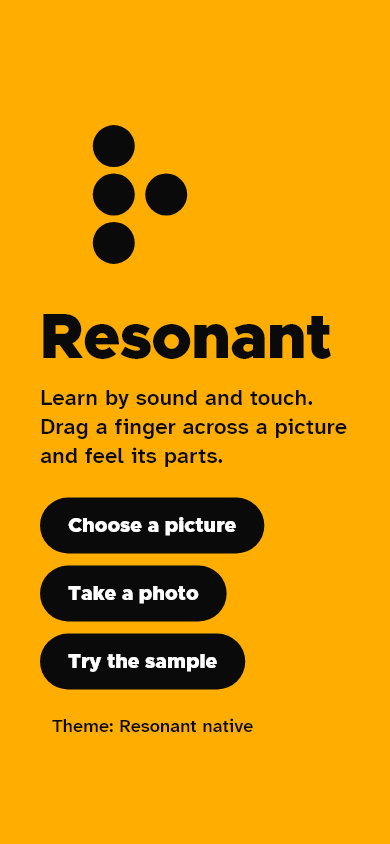
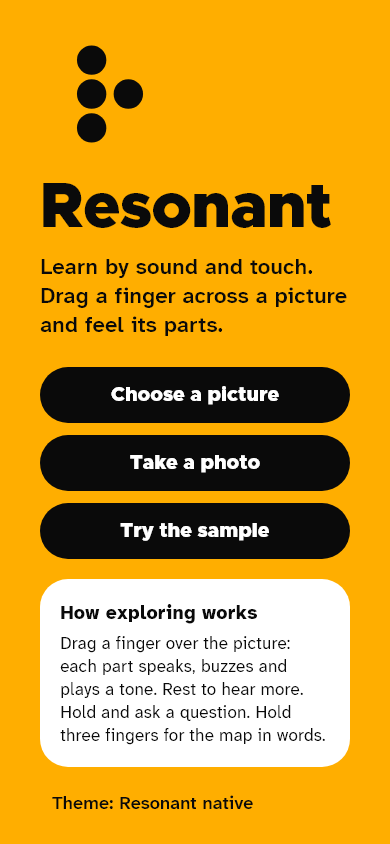
docs: six real screenshots and a full README

diff --git a/tool/screenshots_test.dart b/tool/screenshots_test.dart
@@ -11,12 +11,23 @@ import 'package:resonant/core/providers.dart';
 import 'package:resonant/core/theme/resonant_theme.dart';
 import 'package:resonant/features/touch/application/touch_controller.dart';
 import 'package:resonant/features/touch/data/http_touch_repository.dart';
+import 'package:resonant/features/touch/data/touch_repository.dart';
+import 'package:resonant/features/touch/domain/region.dart';
 import 'package:resonant/features/touch/gestures/gesture_types.dart';
 import 'package:resonant/features/touch/presentation/home_screen.dart';
 import 'package:resonant/features/touch/presentation/study_notes_screen.dart';
 import 'package:resonant/features/touch/presentation/touch_screen.dart';
 
 import '../test/fakes.dart';
+
+/// Serves the real bundled sample, but builds lessons and quizzes from the
+/// regions locally (the fake), so no network or backend is involved.
+class ShotRepo extends FakeRepository {
+  ShotRepo(super.log);
+  final _http = HttpTouchRepository(baseUrl: 'http://unused');
+  @override
+  Future<(Analysis, PictureBytes)> sample() => _http.sample();
+}
 
 void main() {
   TestWidgetsFlutterBinding.ensureInitialized();
@@ -50,7 +61,7 @@ void main() {
       hapticsProvider.overrideWithValue(FakeHaptics(log)),
       cuesProvider.overrideWithValue(FakeCues(log)),
       speechInputProvider.overrideWithValue(FakeInput(log)),
-      repositoryProvider.overrideWithValue(HttpTouchRepository(baseUrl: 'http://unused')),
+      repositoryProvider.overrideWithValue(ShotRepo(log)),
     ];
   }
 
@@ -101,6 +112,44 @@ void main() {
     await expectLater(
       find.byType(StudyNotesScreen),
       matchesGoldenFile('../docs/screenshots/03-study-notes.png'),
+    );
+  });
+
+  Future<ProviderContainer> openExplore(WidgetTester tester) async {
+    final container = await pumpApp(tester);
+    await tester.runAsync(() async {
+      await container.read(touchControllerProvider.notifier).openSample();
+      await Future<void>.delayed(const Duration(milliseconds: 800));
+    });
+    await tester.pump(const Duration(milliseconds: 300));
+    await tester.runAsync(() => Future<void>.delayed(const Duration(milliseconds: 600)));
+    await tester.pump(const Duration(milliseconds: 300));
+    return container;
+  }
+
+  testWidgets('lesson screenshot', (tester) async {
+    final container = await openExplore(tester);
+    await container.read(touchControllerProvider.notifier).startLesson();
+    await tester.pump(const Duration(milliseconds: 300));
+    await expectLater(find.byType(TouchScreen), matchesGoldenFile('../docs/screenshots/04-lesson.png'));
+  });
+
+  testWidgets('quiz screenshot', (tester) async {
+    final container = await openExplore(tester);
+    await container.read(touchControllerProvider.notifier).startQuiz();
+    await tester.pump(const Duration(milliseconds: 300));
+    await expectLater(find.byType(TouchScreen), matchesGoldenFile('../docs/screenshots/05-quiz.png'));
+  });
+
+  testWidgets('low vision theme screenshot', (tester) async {
+    final container = await pumpApp(tester);
+    container.read(paletteProvider.notifier).next(); // Resonant native -> Low vision
+    // MaterialApp lerps to the new theme over 200 ms; let it finish.
+    await tester.pump();
+    await tester.pump(const Duration(milliseconds: 400));
+    await expectLater(
+      find.byType(HomeScreen),
+      matchesGoldenFile('../docs/screenshots/06-theme-low-vision.png'),
     );
   });
 }

diff --git a/README.md b/README.md
@@ -1,6 +1,17 @@
+<div align="center">
+
 # Resonant
 
 **Learn by sound and touch.** Drag a finger across a picture and feel its parts.
+
+![Platform](https://img.shields.io/badge/platform-Flutter%20·%20Android%20·%20iOS%20·%20web-FFAE00?style=flat-square&labelColor=0A0A0A)
+![AI](https://img.shields.io/badge/AI-Muse%20Spark%201.3%20%2B%20SAM%203.1-FFAE00?style=flat-square&labelColor=0A0A0A)
+![Accessibility](https://img.shields.io/badge/built%20for-eyes--free%20use-FFAE00?style=flat-square&labelColor=0A0A0A)
+![Tests](https://img.shields.io/badge/tests-76%20Flutter%20%2B%2041%20backend-FFAE00?style=flat-square&labelColor=0A0A0A)
+
+[Screens](#screens) · [How it works](#how-it-works) · [Live voice](#live-voice-talk-live) · [Gestures](#gestures) · [Themes](#themes) · [Run it](#run-it) · [Status](#status--what-is-in-the-app-and-what-is-not) · [Credits](#credits)
+
+</div>
 
 Diagrams, charts and photos are the part of school that screen readers cannot reach. Alt text says
 "a diagram of the water cycle" and stops. Resonant turns the picture itself into something a blind
@@ -11,14 +22,29 @@ it says which way to walk to the nearest part.
 
 The logo is the letter R in braille (⠗: dots 1-2-3-5), because sound and touch resonate through everything.
 
-## Screenshots
+## Screens
 
-| | |
-| --- | --- |
-| ![Home screen: braille-R dots logo, the word Resonant, and three large buttons — Choose a picture, Take a photo, Try the sample](docs/screenshots/01-home.png) | ![Explore screen: the sample landscape with the sun outlined, its spoken caption below, gesture strips on both sides, and buttons for Overview, Previous and Next part, Lesson, Quiz me, Talk live and Study notes](docs/screenshots/02-explore.png) |
-| *Pick a picture — or try the sample, no key needed.* | *Explore: the sun is outlined, captioned, and one tap from a lesson, a quiz, or a live tutor.* |
-| ![Study notes: the picture as plain text — title, overview, the map in words, and every part with its description, ready for a screen reader](docs/screenshots/03-study-notes.png) | |
-| *Study notes: the whole picture as readable text for revision.* | |
+Rendered from the real app with its own fonts and the bundled sample picture — not mockups.
+Regenerate them with the golden-test generator in `tool/` (see `docs/screenshots/README.md`).
+
+<div align="center">
+<table>
+<tr>
+<td align="center"><img src="docs/screenshots/01-home.png" width="250" alt="Home: the braille-R dots, the word Resonant, three wide buttons (Choose a picture, Take a photo, Try the sample), a card explaining how exploring works, and the theme line"><br><b>Home</b><br><sub>Pick a picture, or try the sample</sub></td>
+<td align="center"><img src="docs/screenshots/02-explore.png" width="250" alt="Explore: the sample landscape with the sun outlined, its spoken caption below, gesture strips on both sides, and buttons for Overview, Previous and Next part, Lesson, Quiz me, Talk live and Study notes"><br><b>Explore</b><br><sub>The sun, outlined and captioned</sub></td>
+<td align="center"><img src="docs/screenshots/03-study-notes.png" width="250" alt="Study notes: the picture as plain text — title, a Copy notes to share button, overview, the map in words, and every part with its description and clock position"><br><b>Study notes</b><br><sub>The whole picture as readable text</sub></td>
+</tr>
+<tr>
+<td align="center"><img src="docs/screenshots/04-lesson.png" width="250" alt="Lesson mode: the picture above the caption 'Lesson. Welcome to the lesson.' and Previous step, Next step, Repeat and Back to exploring buttons"><br><b>Lesson</b><br><sub>A guided walk through the parts</sub></td>
+<td align="center"><img src="docs/screenshots/05-quiz.png" width="250" alt="Quiz mode: the caption asks 'Quiz. 2 questions. Question 1. Find the sun.' with Answer by voice, Repeat question, Skip and Back to exploring buttons"><br><b>Quiz</b><br><sub>Find it by touch, or answer out loud</sub></td>
+<td align="center"><img src="docs/screenshots/06-theme-low-vision.png" width="250" alt="Home in the Low vision theme: yellow dots, wordmark and text on a near-black background, black buttons with white text, and a dark card with a yellow outline"><br><b>Low vision theme</b><br><sub>One of twelve, a tap away</sub></td>
+</tr>
+</table>
+</div>
+
+The braille R is also the app's face while it works: on the explore screen the dots gather when it is
+listening, orbit while it thinks, and settle when it is idle — and every state also has a sound and a
+vibration, so the face is a sighted extra, never the only signal.
 
 ## Pre-existing work
 
@@ -30,7 +56,7 @@ Dart**:
 | Carried over from the earlier app | Where it lives here |
 | --- | --- |
 | The name, the braille R logo and the dot animation geometry | `lib/core/ui/resonant_dots.dart`, `assets/brand/` |
-| Colour palettes, shapes and sizes (four of its themes) | `lib/core/theme/` |
+| Colour palettes, shapes and sizes (all twelve of its themes) | `lib/core/theme/` |
 | Fonts (Metropolis, Atkinson Hyperlegible) | `assets/fonts/`, see `NOTICE.md` |
 | Gesture grammar: zones, timings, swipe inversion, hold-to-adjust-speed, three-finger gestures | `lib/features/touch/gestures/` |
 | The haptic vocabulary and its matching sound cues, and the stereo-panning rule | `lib/core/services/haptics.dart`, `sound.dart` |
@@ -42,7 +68,7 @@ left-right-to-stereo sound mapping; hold-to-ask questions about the part under y
 through parts from the edge; the Flutter app and its architecture, for Android, iPhone and web; and all
 the tests.
 
-**Ported from Resonant-AI during the hackathon, rewritten in Dart/JS** (behaviour and wording only,
+**Ported from Resonant-AI during the hackathon, rewritten in Dart/JS/Python** (behaviour and wording only,
 no old code copied; inventoried in `docs/HACKATHON.md`):
 
 | Ported feature | Where it lives here |
@@ -50,8 +76,9 @@ no old code copied; inventoried in `docs/HACKATHON.md`):
 | Lesson mode: guided steps through content, swipes navigate | `lib/features/learn/`, `POST /api/lesson` |
 | Quiz / check-me: correct–incorrect haptic and sound feedback, score | `lib/features/learn/`, `POST /api/quiz`, `POST /api/grade` |
 | Voice tutor chat (the old LiveKit agent, as hold-to-talk multi-turn chat) | `TouchSession` history + `POST /api/chat` |
+| Live voice: a real conversation you can interrupt (the old PC agent, rewritten) | `agent/agent.py`, `POST /api/livekit-token`, the Talk live screen — *built; first on-phone call still to be made* |
 
-## Status — what is in the app, and what is not (1 Nov)
+## Status — what is in the app, and what is not
 
 **Working today, on a real phone:**
 
@@ -69,17 +96,21 @@ no old code copied; inventoried in `docs/HACKATHON.md`):
   answer — and a **Practise missed** round with only the questions you got wrong.
 - **Voice tutor**: hold, ask, lift — then follow up ("and why?"). The tutor remembers the
   conversation and knows which part your finger is on.
-- **Study notes**: the whole picture as plain text (overview, map, every part) for revision with a
-  screen reader.
-- Screen-reader buttons for every gesture, four themes, 71 Flutter tests + 38 backend tests, all green.
+- **Study notes**: the whole picture as plain text (overview, map, every part with its clock-face
+  position) for revision with a screen reader — and **Copy notes to share** pastes them anywhere.
+- Screen-reader buttons for every gesture, twelve themes, 76 Flutter tests + 41 backend tests, all green.
+
+**Built, one step from proven:**
+
+- **Talk live**: a real-time voice conversation with the tutor that you can interrupt mid-sentence.
+  The backend token endpoint, the PC agent and the app screen are built and unit-tested; the first
+  call on a real phone is still to be made. Until then the proven tutor is hold-to-talk, above.
 
 **Not built yet (deliberately — see `docs/HACKATHON.md`):**
 
 - No public hosted link: for now the backend runs on your own computer and the phone talks to it
   over the same Wi-Fi. (A Modal hosting spike is planned; Baseten credits are held in reserve and
   untouched, because on-device speech works.)
-- No real-time voice agent: the tutor is hold-to-talk, not a live conversation. The old LiveKit
-  agent was not revived.
 - Nothing is saved: one picture at a time, no library, no accounts, no progress between sessions.
   Practise-missed lasts for the quiz you are in.
 - New pictures need the backend, a Meta API key and internet. Once a picture is analysed, exploring,
@@ -110,6 +141,32 @@ no old code copied; inventoried in `docs/HACKATHON.md`):
 - The Meta key lives only on the backend. The app never holds it. Re-analyzing a picture you already
   opened is served from the backend's cache, not paid for twice.
 
+## Live voice (Talk live)
+
+Tap **Talk live** on the explore screen and just talk. Start speaking while the tutor is mid-sentence
+and it stops and listens — that interruption is the point.
+
+```
+phone mic ──► LiveKit Cloud (free tier, carries audio only) ──► agent/agent.py on your PC
+              Silero VAD hears you start ──► faster-whisper writes it down
+              ──► Muse Spark answers ──► Piper speaks ──► back to the phone
+```
+
+Everything except the audio relay runs on your own machine and costs nothing: Silero and
+faster-whisper listen locally, Piper is the local voice, and Muse Spark thinks on Meta credits.
+The backend mints the student's room token (`POST /api/livekit-token`) and hides the picture's
+context inside it, so the tutor already knows what you are looking at and which part you last
+touched. Captions of both sides appear on screen as you talk.
+
+```bash
+cd agent && pip install -r requirements.txt
+python agent.py download-files   # one-time: VAD + voice models
+python agent.py dev              # then open a picture in the app and tap Talk live
+python agent.py console          # no phone handy? Talk to it in the terminal
+```
+
+*Status: built end to end and unit-tested; the first on-phone call is still to be made (see Status).*
+
 ## Studying, not just exploring
 
 Everything below is computed on the phone from the masks and boxes — no extra model calls, so it
@@ -118,6 +175,8 @@ works even when the network does not:
 - **Map in words.** Three-finger hold reads the overview plus a three-band spoken map
   ("Top: cloud on the left, sun on the right. Middle: mountain…"), so the layout can be learned,
   not just visited.
+- **Clock-face positions.** Study notes place every part on a clock face ("the sun, at 2 o'clock"),
+  the way blind students are taught to share locations.
 - **What's around it.** A quick tap on a part also names its neighbours ("Around it: cloud to the
   left, mountain below"), which is how a mental picture gets its edges.
 - **Guide me there.** Hold and ask *"Where is the sun?"* and guide mode points you as you drag:
@@ -125,8 +184,9 @@ works even when the network does not:
   lands on the mask.
 - **Practise missed.** The quiz remembers the questions you missed, skipped or had revealed, and
   the end of the quiz offers a second round with only those.
-- **Study notes.** A plain-text screen (overview, map in words, every part with its size and
-  neighbours) that a screen reader can read top to bottom — revision without re-analyzing.
+- **Study notes.** A plain-text screen (overview, map in words, every part with its size, clock
+  position and neighbours) that a screen reader can read top to bottom — revision without
+  re-analyzing. **Copy notes to share** puts the same text on the clipboard for homework or a teacher.
 
 ## Gestures
 
@@ -138,7 +198,7 @@ Carried over from the earlier app, plus finger exploration:
 | Centre | Move, then rest | Hear the part's description |
 | Centre | Quick tap | Hear its name and description now, and what is around it |
 | Centre | Hold still 0.5 s, speak, lift | Ask a question about the picture, or ask "Where is the …?" to be guided to it |
-| Explore screen | Lesson / Quiz me buttons | Guided lesson, or a quiz: touch the part it names, answer questions out loud |
+| Explore screen | Lesson / Quiz me / Talk live buttons | Guided lesson, a quiz (touch the part it names, answer out loud), or a live conversation |
 | Lesson / Quiz | Left-edge swipe, buttons below | Next / previous step or question; hold right edge to go back to exploring |
 | Left edge | Tap / double tap | Stop and resume talking / repeat |
 | Left edge | Swipe (finger down = next) | Step through the parts without dragging |
@@ -146,13 +206,22 @@ Carried over from the earlier app, plus finger exploration:
 | Right edge | Hold without dragging | Back |
 | Anywhere | Three-finger tap / hold | Repeat last / hear the overview and the map in words |
 
+## Themes
+
+The **Theme** line on Home cycles twelve themes carried over from Resonant: Resonant native,
+Low vision (enormous contrast), Cataracts (high clarity), Handsfree (screen reader), Monochrome
+(colorblind), Photophobia (low glare), Warm ambiance, Night red, Blue on yellow, Soft cream,
+Paper gray and White on blue. They are not just colour swaps — the high-contrast ones add outlines
+and change the corner shapes too. Every theme's text pairings are checked at 7:1 or better by a
+unit test (`test/palette_test.dart`), so a future edit cannot quietly make a theme unreadable.
+
 ## Architecture
 
 ```
 lib/
   core/            speech, haptics, sound behind interfaces; theme; the animated braille logo
   features/touch/
-    domain/        Region, Analysis, hit-testing, spatial words (map, neighbours)  (pure Dart)
+    domain/        Region, Analysis, hit-testing, spatial words (map, neighbours, clock)  (pure Dart)
     gestures/      the gesture engine: touches -> gestures (pure Dart, no clock, no timers)
     application/   TouchSession: gestures -> speech/touch/sound  (pure Dart) + Riverpod controller
     data/          the backend client
@@ -160,7 +229,8 @@ lib/
   features/learn/
     domain/        Lesson, Quiz, Grade                     (pure Dart)
     application/   LearnSession: lesson steps + quiz grading (pure Dart)
-backend/           Node: Muse Spark + SAM 3.1 -> regions; Spark -> lesson, quiz, tutor chat
+backend/           Node: Muse Spark + SAM 3.1 -> regions; Spark -> lesson, quiz, tutor chat; LiveKit tokens
+agent/             Python: the Talk live tutor (Silero, faster-whisper, Muse Spark, Piper)
 ```
 
 Every effect (voice, vibration, tones, microphone, network) sits behind an interface, so the whole
@@ -193,8 +263,8 @@ speech and sound, but not vibration, because Safari has none. A native iPhone bu
 ## Tests
 
 ```bash
-flutter test            # gestures, hit-testing, sessions, spatial words, sound (71 tests)
-cd backend && npm test  # the Meta pipeline, mask handling, lesson/quiz/chat API (38 tests)
+flutter test            # gestures, hit-testing, sessions, spatial words, notes, theme contrast, sound (76 tests)
+cd backend && npm test  # the Meta pipeline, mask handling, lesson/quiz/chat API, LiveKit tokens (41 tests)
 ```
 
 ## Known limits
@@ -203,11 +273,24 @@ cd backend && npm test  # the Meta pipeline, mask handling, lesson/quiz/chat API
 - SAM 3.1 matches one concept per request, so a vaguely phrased label can match nothing. The backend retries with simpler concepts; if it still finds nothing but Muse Spark gave a rough box, the part stays touchable as an approximate rectangle (the app says so), and many tiny matches in one photo (every tooth in a close-up) are merged into one region.
 - Vibration is timed on Android. On iPhone it is a series of taps, and none at all in the browser.
 - With TalkBack or VoiceOver on, the screen reader takes over one-finger touch, so use the buttons under the picture.
+- Talk live needs the agent running on a computer on the same network, and its first on-phone call is still to be made.
 
-## Built with
+## Credits
 
-Meta Model API (Muse Spark 1.3, SAM 3.1), Flutter, Riverpod, Node. The initial project scaffold was
-written with help from Claude (Anthropic) as a coding assistant.
+Resonant stands on a lot of generous work. Each of these keeps its own license.
+
+| What | Used for | License |
+| --- | --- | --- |
+| Meta Model API (Muse Spark 1.3, SAM 3.1) | Naming parts, lessons, quizzes, grading, the tutor's brain; exact picture masks | Meta Model API terms |
+| [LiveKit](https://livekit.io) + LiveKit Agents | Carrying live voice between the phone and the PC agent (free tier) | Apache-2.0 |
+| [Silero VAD](https://github.com/snakers4/silero-vad) | Hearing when you start and stop talking | MIT |
+| [faster-whisper](https://github.com/SYSTRAN/faster-whisper) | Writing down what you said, on your own PC | MIT |
+| [Piper](https://github.com/rhasspy/piper) | The tutor's spoken voice, on your own PC | MIT |
+| Flutter, Riverpod | The app itself, Android / iOS / web | BSD-3-Clause, MIT |
+| [Atkinson Hyperlegible](https://www.brailleinstitute.org/freefont/) | Body typeface, made for low vision | SIL OFL 1.1 |
+| Metropolis | Display typeface and the wordmark | SIL OFL 1.1 |
+
+The initial project scaffold was written with help from Claude (Anthropic) as a coding assistant.
 
 ## License
 

diff --git a/docs/HACKATHON.md b/docs/HACKATHON.md
@@ -26,13 +26,17 @@ What holds under any reasonable reading, and is already done in this repo:
 
 - Keep the Pre-existing work table accurate. If you port more from the earlier app, add it. If you remove something, remove it.
   **Ported 2026-10-31 (behaviour rewritten in Dart/JS, no old code copied): lesson mode, quiz/check-me,
-  voice tutor chat — see the "Ported from Resonant-AI" table in `README.md`. Phase 0 inventory of
-  `alekslime/Resonant-AI` (clone it outside this repo) is still owed: confirm its lesson/quiz/agent
-  flows match what was ported, and adjust wording/prompts if they differ.**
-- The old LiveKit agent was **not** revived: the tutor is hold-to-talk multi-turn chat over the
-  device mic/speaker. If that changes, rotate the old LiveKit keys first (see below).
+  voice tutor chat — see the "Ported from Resonant-AI" table in `README.md`.**
+  **Phase 0 inventory done 2026-11-01: `alekslime/Resonant-AI` was cloned outside this repo and its
+  README/screens read. Its lesson, quiz, chat and live-agent flows match what was ported. Two deliberate
+  substitutions: Muse Spark thinks instead of the old local model, and Piper speaks instead of the old
+  PC voice — same architecture (Silero VAD → speech-to-text → model → text-to-speech), new code.**
+- The old LiveKit agent was **not** copied or revived as code. A new agent (`agent/agent.py`) was
+  written fresh for Talk live, using a new LiveKit project's keys, which live only in the gitignored
+  `backend/.env`. First on-phone call still to be made; until it passes, the proven tutor is the
+  hold-to-talk chat.
 - Keep dated commits. A history that shows the new work arriving is your proof.
-- The earlier app's `agent/.env` held real LiveKit keys. Rotate them, and do not add anything from that file here.
+- Nothing from the earlier app's `agent/.env` was brought into this repo.
 - Read whether the rules say anything about AI-assisted code. The README credits Claude for the initial scaffold; edit it to match what is true by the time you submit.
 
 ## Deadline
